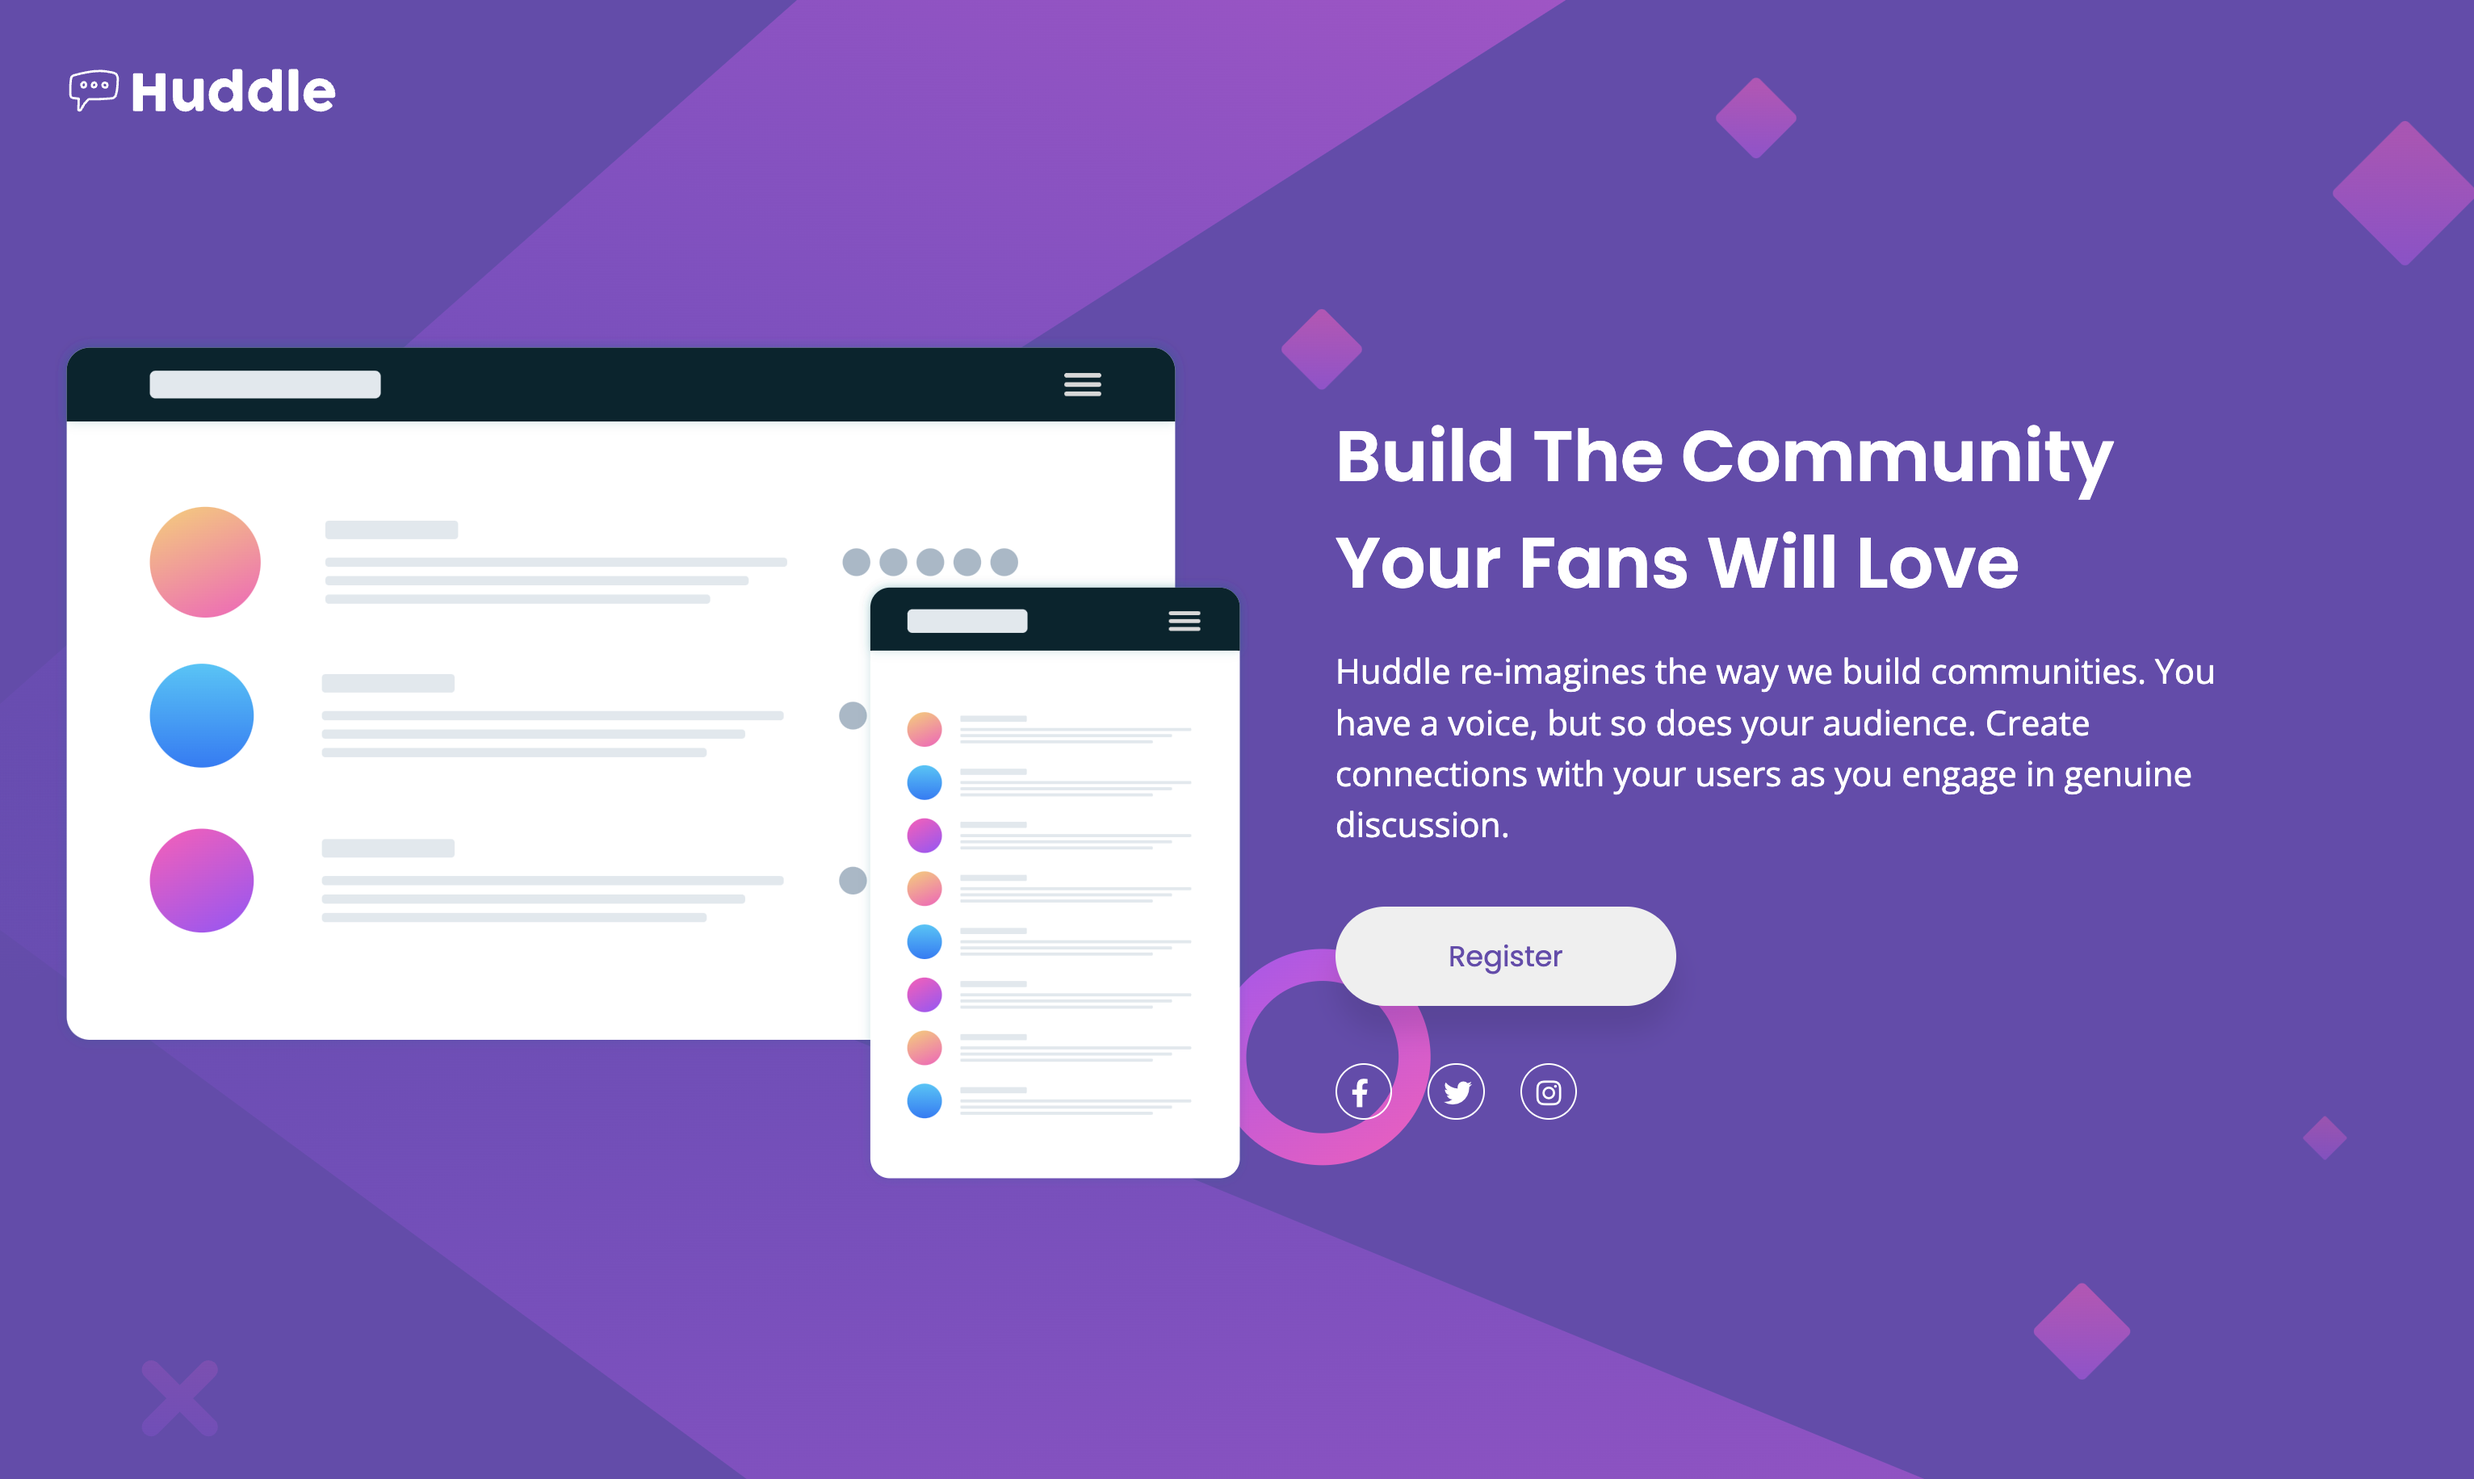
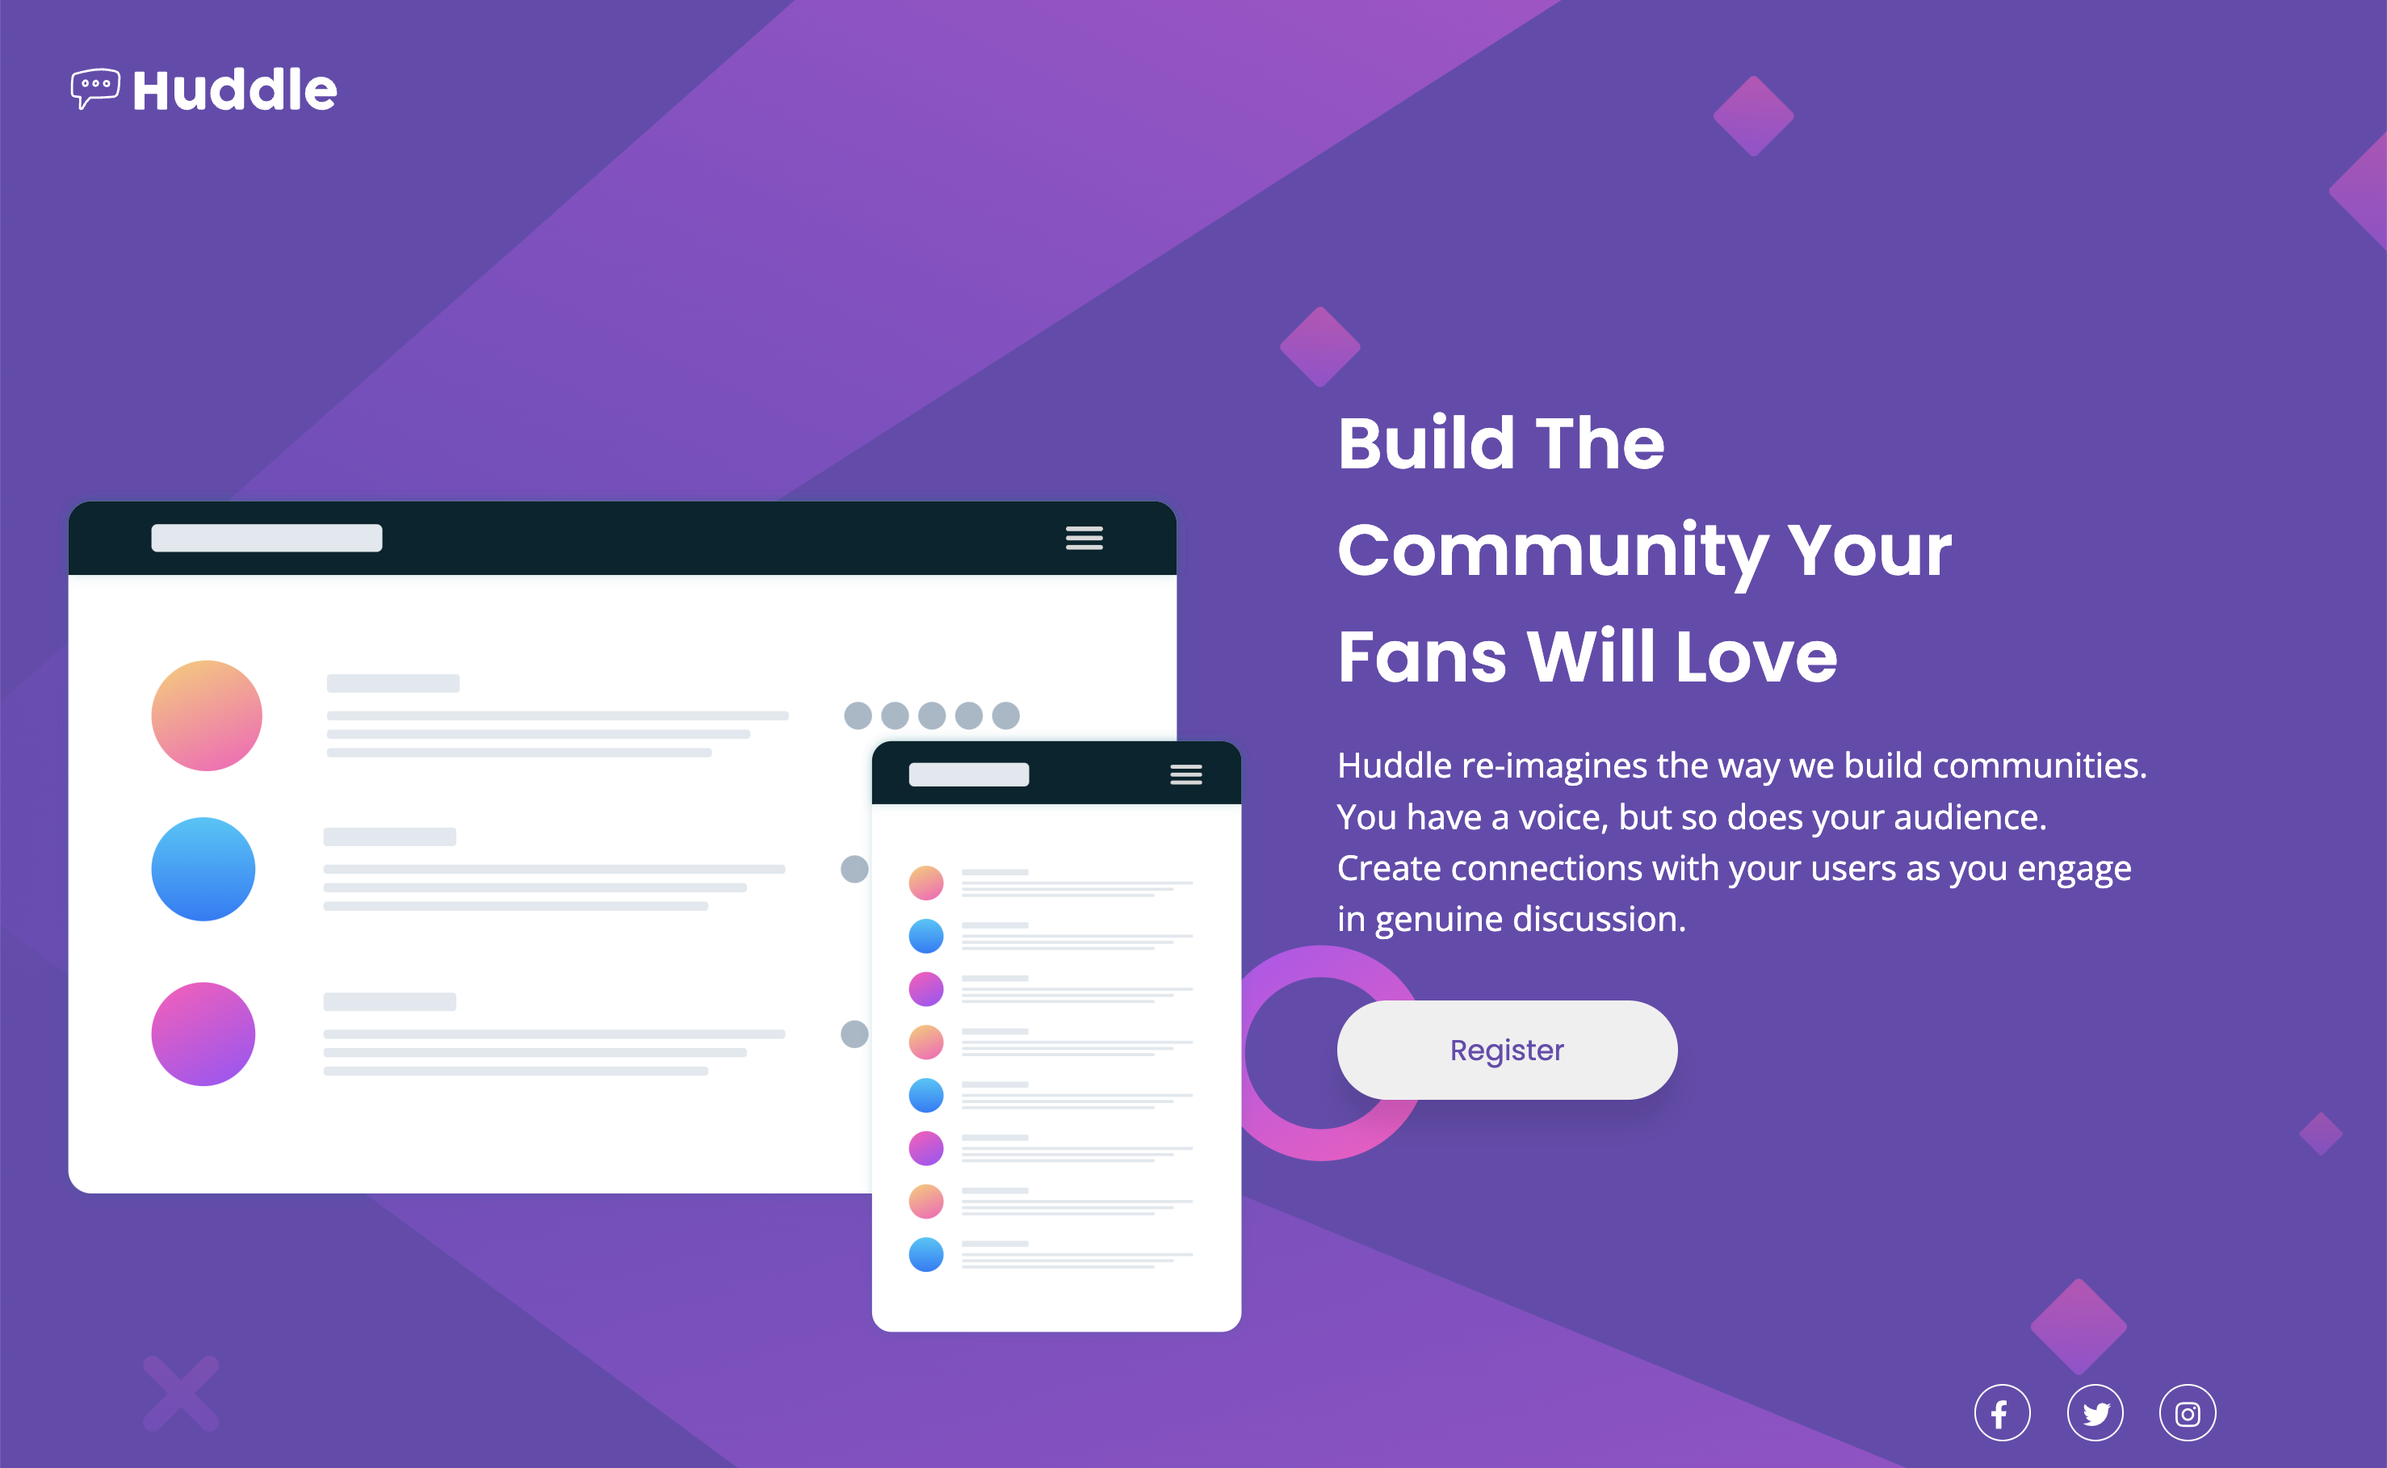
Fixed social link container on desktop view

diff --git a/styles.css b/styles.css
@@ -162,6 +162,10 @@ footer {
         width: 12rem;
     }
 
+    .social-container {
+        align-self: flex-end;
+        padding: 10rem 0 0 0
+    }
     footer {
         visibility: visible;
         position: absolute;

diff --git a/README.md b/README.md
@@ -10,11 +10,7 @@ This is a solution to the [Huddle landing page with single introductory section 
   - [Links](#links)
 - [My process](#my-process)
   - [Built with](#built-with)
-  - [What I learned](#what-i-learned)
-  - [Continued development](#continued-development)
-  - [Useful resources](#useful-resources)
 - [Author](#author)
-- [Acknowledgments](#acknowledgments)
 
 
 ## Overview
